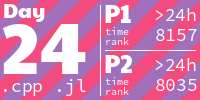
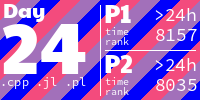
Fix issue with tiles-script using specific number of whitespaces

diff --git a/AoCTiles/create_aoc_tiles.py b/AoCTiles/create_aoc_tiles.py
@@ -114,7 +114,7 @@ def get_paths_matching_regex(path: Path, pattern: str):
 
 def parse_leaderboard(leaderboard_path: Path) -> dict[str, DayScores]:
     no_stars = "You haven't collected any stars... yet."
-    start = '<span class="leaderboard-daydesc-both">    Time   Rank  Score</span>\n'
+    start = '<span class="leaderboard-daydesc-both"> *Time *Rank *Score</span>\n'
     end = "</pre>"
     with open(leaderboard_path) as file:
         html = file.read()
@@ -141,6 +141,7 @@ def request_leaderboard(year: int) -> dict[str, DayScores]:
     with open(SESSION_COOKIE_PATH) as cookie_file:
         session_cookie = cookie_file.read().strip()
         data = requests.get(PERSONAL_LEADERBOARD_URL.format(year=year), cookies={"session": session_cookie}).text
+        leaderboard_path.parent.mkdir(exist_ok=True, parents=True)
         with open(leaderboard_path, "w") as file:
             file.write(data)
     return parse_leaderboard(leaderboard_path)

diff --git a/README.md b/README.md
@@ -4,8 +4,11 @@
 
 <!-- AOC TILES BEGIN -->
 <h1 align="center">
-  2022 - 0 ⭐
+  2022 - 2 ⭐
 </h1>
+<a href="2022/01/01.py">
+  <img src="Media/2022/01.png" width="161px">
+</a>
 <h1 align="center">
   2021 - 50 ⭐
 </h1>
@@ -72,13 +75,13 @@
 <a href="2021/21/21.jl">
   <img src="Media/2021/21.png" width="161px">
 </a>
-<a href="2021/22/22.jl">
+<a href="2021/22/part1.jl">
   <img src="Media/2021/22.png" width="161px">
 </a>
 <a href="2021/23/23.jl">
   <img src="Media/2021/23.png" width="161px">
 </a>
-<a href="2021/24/24.cpp">
+<a href="2021/24/24.pl">
   <img src="Media/2021/24.png" width="161px">
 </a>
 <a href="2021/25/25.jl">
